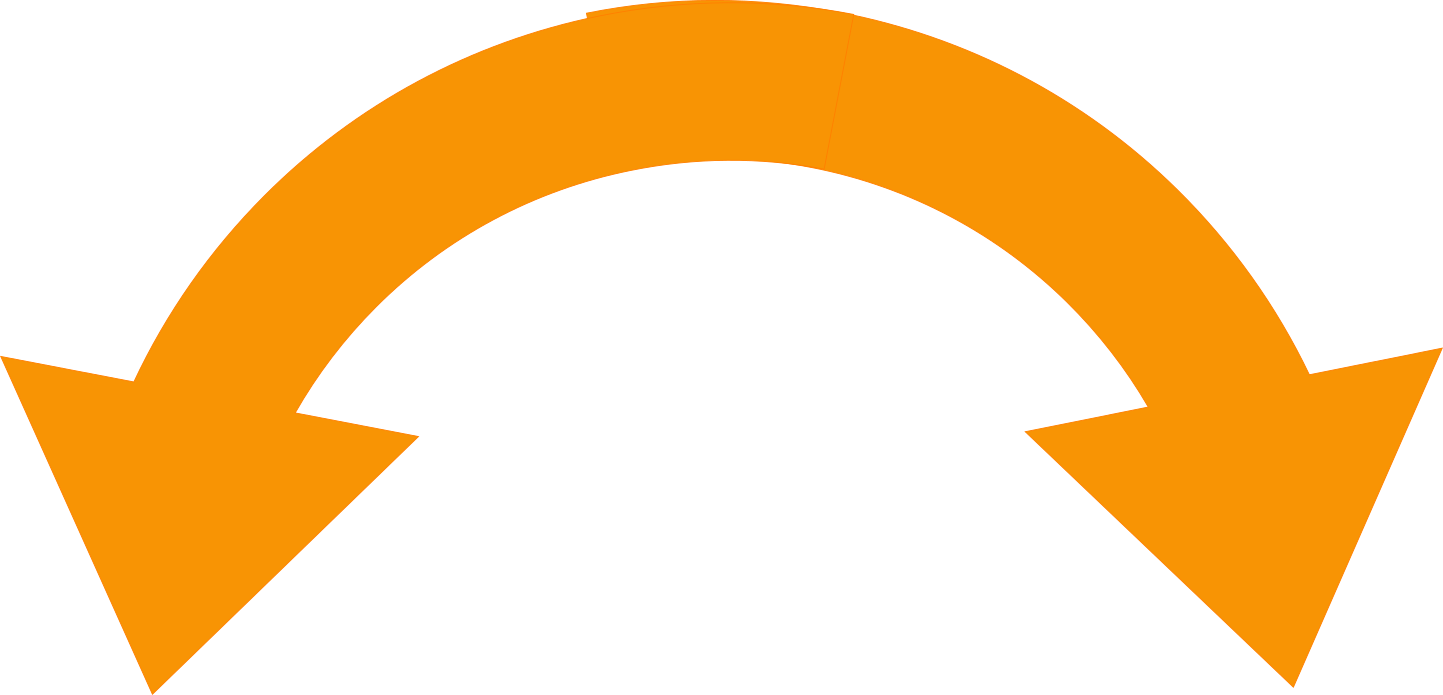
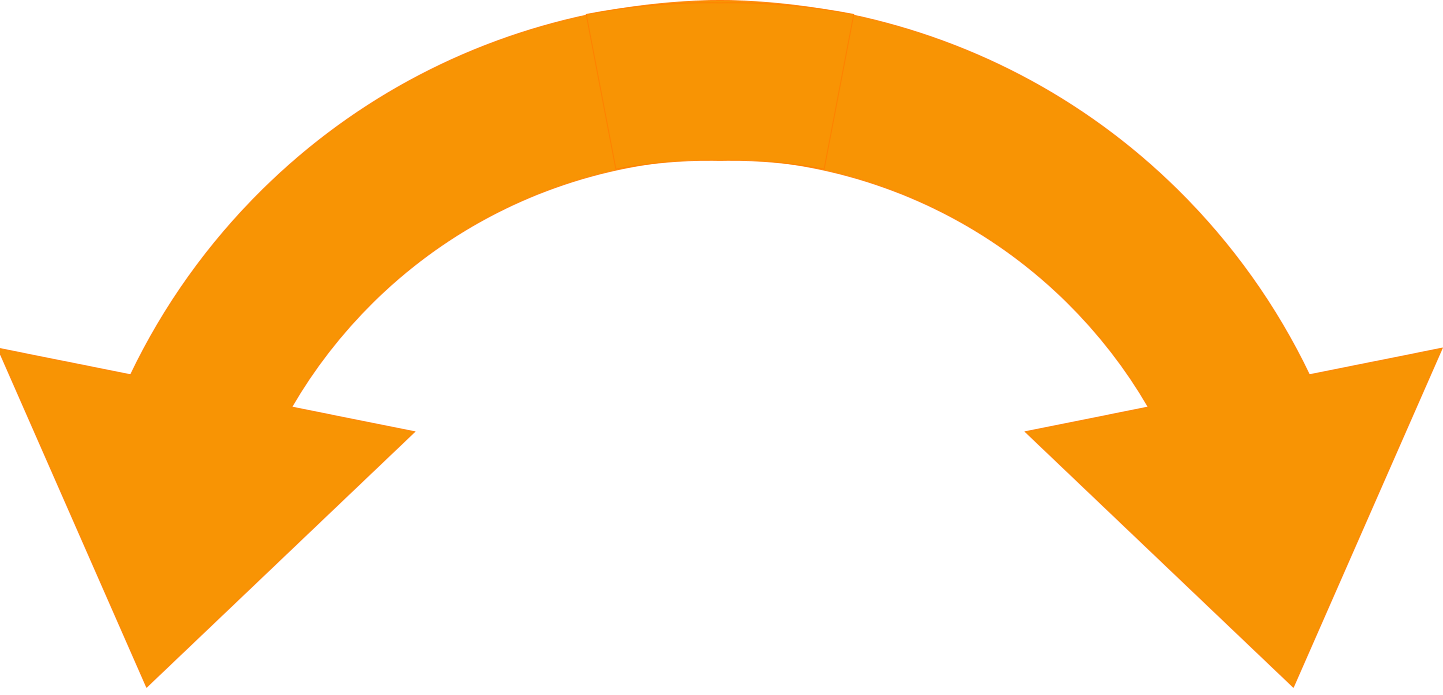
Repair misformed rotate graphics, add assets
In reparation to main screen tweaks

diff --git a/src/main/java/com/commonwealthrobotics/MainController.java b/src/main/java/com/commonwealthrobotics/MainController.java
@@ -355,6 +355,16 @@ public class MainController implements ICaDoodleStateUpdate, ICameraChangeListen
 		this.newStage = newStage;
 	}
 
+
+	@FXML
+	void openHomePage(ActionEvent ae) {
+		try {
+			java.awt.Desktop.getDesktop().browse(new java.net.URI("https://cadoodlecad.com"));
+		} catch (Exception e) {
+			e.printStackTrace();
+		}
+	}
+
 	@FXML
 	void onMakeRobot(ActionEvent e) {
 		com.neuronrobotics.sdk.common.Log.debug("Make robot");
